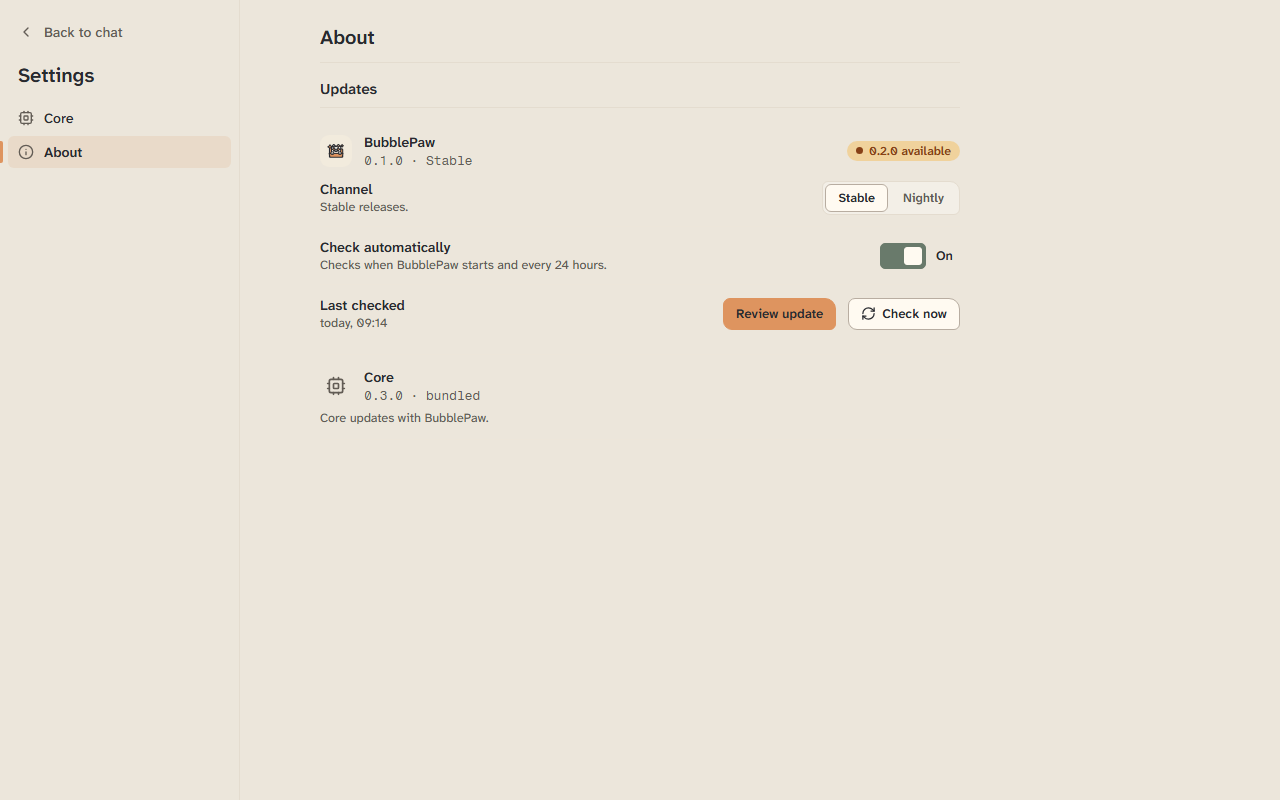
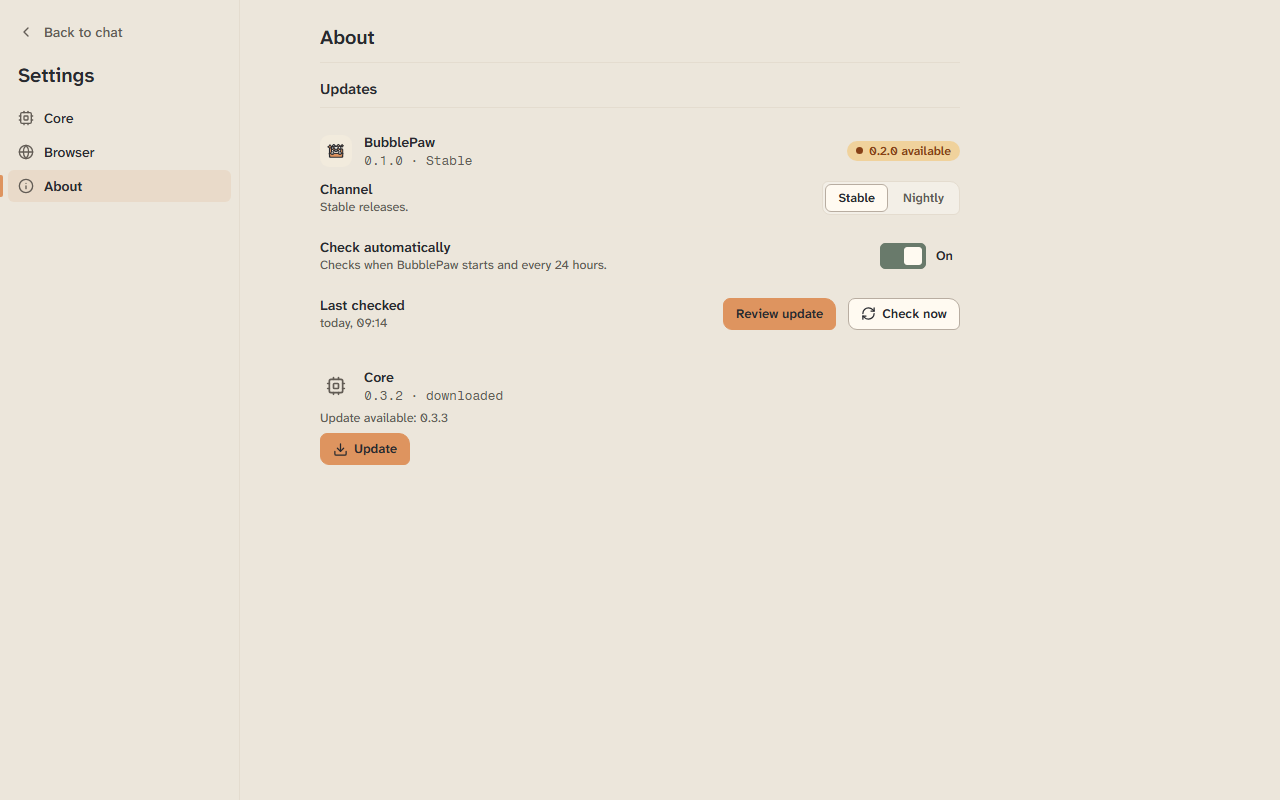
Add Browser settings page; Core is downloaded, not bundled; Chrome for Testing

Changed region(s): [[0.25, 0.4688, 0.4062, 0.5938], [0.0, 0.1875, 0.0625, 0.25]]

diff --git a/design/updates-and-browser/app.js b/design/updates-and-browser/app.js
@@ -12,7 +12,7 @@
   });
   const S = { screen: H.screen || 'popup', size: H.size || 'desktop', still: H.still || '0', tall: H.tall || '0', chrome: H.chrome || '1',
     pv: H.pv || '' };
-  const SCREENS = [['popup', '1', 'Update popup'], ['about', '2', 'About, Updates'], ['core', '3', 'Core'], ['browser', '4', 'Browser']];
+  const SCREENS = [['popup', '1', 'Update popup'], ['about', '2', 'About, Updates'], ['core', '3', 'Core'], ['browser', '4', 'Browser'], ['bset', '5', 'Browser settings']];
   const FIXED = { popup: 'desktop', core: 'desktop' };
 
   /* ---------- model ---------- */
@@ -21,11 +21,13 @@
     ch: H.ch === 'nightly' ? 'nightly' : 'stable',
     auto: true, last: 'today, 09:14', chk: H.chk || 'idle', chkResult: H.result === 'none' ? 'none' : 'found',
     pu: H.pu || 'available', prog: H.pu === 'downloading' ? 42 : 0,
-    coreMode: H.core || 'bundled', det: H.det || 'found', detBusy: false, att: H.att === 'process' ? 'process' : H.att ? 'service' : '', saved: '',
+    coreMode: !H.core || H.core === 'bundled' ? 'downloaded' : H.core, cd: H.cdl || 'update', cdp: H.cdl === 'downloading' ? 45 : 0, cdv: '0.3.2', det: H.det || 'found', detBusy: false, att: H.att === 'process' ? 'process' : H.att ? 'service' : '', saved: '',
     f: { binary: '/opt/bubblepaw/bubblepaw', data: '/home/maya/.local/share/bubblepaw-desktop/data', args: '' },
     br: { st: H.br || 'acting', tab: 0, pane: true, dl: H.br === 'downloading' ? 34 : 0,
       tabs: [{ t: 'Changelog', u: 'docs.example.com/changelog' }, { t: 'Install guide', u: 'docs.example.com/install' }, { t: 'Issue 482', u: 'github.com/example/app/issues/482' }] },
   };
+  M.bs = { ctl: H.bctl || 'ask', src: H.bsrc || 'auto', found: H.bfound === 'none' ? 'none' : 'edge', got: H.bdl === '1', idle: H.bidle || '15', keep: H.bkeep !== '0', open: H.bopen !== '0', cleared: false,
+    cpath: H.bcerr === '1' ? '/usr/bin/firefox' : '/usr/bin/chromium', cerr: H.bcerr === '1', dir: '/home/maya/Downloads' };
   if (H.tab) M.br.tab = +H.tab;
   M.br.ctrl = H.ctrl === '1'; M.br.max = H.max === '1';
   if (H.tabs === '1') M.br.tabs = [M.br.tabs[1]];
@@ -37,7 +39,8 @@
       notes: ['Built from main at 3a7f1c2, 14 commits after your current build.', 'The built-in browser shows the agent’s tabs live.', 'Fixes the checksum check when a download is retried.'] },
   };
   const ver = () => VER[M.ch];
-  const CORE = { bundled: '0.3.0', installed: '0.3.2', old: '0.2.4' };
+  const CORE = { next: '0.3.3', installed: '0.3.2', old: '0.2.4', size: 18.4 };
+  const CORE_DIR = '/home/maya/.local/share/bubblepaw-desktop/core';
   const CORE_REL = 'https://github.com/BubbleBuffer/BubblePaw-Core/releases';
 
   /* ---------- helpers ---------- */
@@ -99,10 +102,15 @@
   function coreRow() {
     const m = M.coreMode;
     let line, ver_, extra = '';
-    if (M.att) { ver_ = `${CORE.installed} · attached host`; line = 'This host is managed outside BubblePaw and is updated there.'; extra = `<a class="link" href="${CORE_REL}" target="_blank" rel="noreferrer">Core releases${ic('external-link', 13)}</a>`; }
-    else if (m === 'bundled') { ver_ = `${CORE.bundled} · bundled`; line = 'Core updates with BubblePaw.'; }
-    else if (m === 'installed') { ver_ = M.det === 'found' ? `${CORE.installed} · installed at /usr/local/bin/bubblepaw` : M.det === 'old' ? `${CORE.old} · installed at /usr/local/bin/bubblepaw` : 'Not found'; line = 'Core is updated outside BubblePaw.'; extra = `<a class="link" href="${CORE_REL}" target="_blank" rel="noreferrer">Core releases${ic('external-link', 13)}</a>`; }
-    else { ver_ = `Custom binary at ${M.f.binary}`; line = 'Core is updated outside BubblePaw.'; extra = `<a class="link" href="${CORE_REL}" target="_blank" rel="noreferrer">Core releases${ic('external-link', 13)}</a>`; }
+    if (M.att) { ver_ = `${CORE.installed} · attached host`; line = 'Updated outside BubblePaw.'; extra = `<a class="link" href="${CORE_REL}" target="_blank" rel="noreferrer">Core releases${ic('external-link', 13)}</a>`; }
+    else if (m === 'downloaded') {
+      const cd = M.cd;
+      if (cd === 'offline' || cd === 'failed' || cd === 'none') { ver_ = 'Not downloaded'; line = cd === 'offline' ? 'Core could not be downloaded because this computer is offline.' : cd === 'failed' ? 'The Core download failed.' : 'Core is not downloaded.'; extra = btn('Download', { kind: 'primary', icon: 'download', act: 'cd', arg: 'downloading' }); }
+      else if (cd === 'downloading') { ver_ = `${M.cdv} · downloading`; line = `Downloading ${CORE.next}, ${M.cdp}%`; extra = bar_(M.cdp, 'Core download'); }
+      else { ver_ = `${M.cdv} · downloaded`; line = cd === 'update' ? `Update available: ${CORE.next}` : 'Up to date.'; extra = cd === 'update' ? btn('Update', { kind: 'primary', icon: 'download', act: 'cd', arg: 'downloading' }) : ''; }
+    }
+    else if (m === 'installed') { ver_ = M.det === 'found' ? `${CORE.installed} · installed at /usr/local/bin/bubblepaw` : M.det === 'old' ? `${CORE.old} · installed at /usr/local/bin/bubblepaw` : 'Not found'; line = 'Updated outside BubblePaw.'; extra = `<a class="link" href="${CORE_REL}" target="_blank" rel="noreferrer">Core releases${ic('external-link', 13)}</a>`; }
+    else { ver_ = `Custom binary at ${M.f.binary}`; line = 'Updated outside BubblePaw.'; extra = `<a class="link" href="${CORE_REL}" target="_blank" rel="noreferrer">Core releases${ic('external-link', 13)}</a>`; }
     return `<div class="urow"><div class="uh"><span class="uic">${ic('cpu', 20)}</span><div class="grow"><div class="t">Core</div><div class="s mono">${ver_}</div></div></div><div class="s" style="margin-top:6px">${line}</div>${extra ? `<div style="margin-top:6px">${extra}</div>` : ''}</div>`;
   }
   function updates() {
@@ -119,16 +127,27 @@
   }
   function aboutDesktop() {
     return `<div class="set-desk"><nav class="set-nav" aria-label="Settings"><button class="nav-item back">${ic('chevron-left', 16)}Back to chat</button><h1>Settings</h1>
-      <button class="nav-item" ${A('screen', 'core')}>${ic('cpu', 16)}Core</button><button class="nav-item" aria-current="page">${ic('info', 16)}About</button></nav>
+      <button class="nav-item" ${A('screen', 'core')}>${ic('cpu', 16)}Core</button><button class="nav-item" ${A('screen', 'bset')}>${ic('globe', 16)}Browser</button><button class="nav-item" aria-current="page">${ic('info', 16)}About</button></nav>
       <div class="set-main"><div class="set-col"><h1 class="pt">About</h1>${updates()}</div></div></div>`;
   }
   function aboutPhone() {
     if (S.pv === 'list') return `<div class="phone-col"><div class="statusgap"></div><div class="phone-head"><button class="iconbtn" aria-label="Back to chat">${ic('chevron-left', 22)}</button><h1>Settings</h1></div>
-      <div class="phone-body" style="padding-top:8px"><button class="nav-row" ${A('pv', 'about')}>${ic('info', 20)}<span class="grow"><div class="t">About</div><div class="s">BubblePaw ${ver().cur}</div></span>${ic('chevron-right', 18)}</button></div><div class="homebar"></div></div>`;
+      <div class="phone-body" style="padding-top:8px"><button class="nav-row" ${A('pv', 'bset')}>${ic('globe', 20)}<span class="grow"><div class="t">Browser</div><div class="s">Agent control, browser, downloads</div></span>${ic('chevron-right', 18)}</button><button class="nav-row" ${A('pv', 'about')}>${ic('info', 20)}<span class="grow"><div class="t">About</div><div class="s">BubblePaw ${ver().cur}</div></span>${ic('chevron-right', 18)}</button></div><div class="homebar"></div></div>`;
     return `<div class="phone-col"><div class="statusgap"></div><div class="phone-head"><button class="iconbtn" aria-label="Back to settings" ${A('pv', 'list')}>${ic('chevron-left', 22)}</button><h1>About</h1></div><div class="phone-body">${updates()}</div><div class="homebar"></div></div>`;
   }
 
   /* ---------- 3. core ---------- */
+  function downloadedPanel() {
+    const cd = M.cd, src = ['Source', 'BubblePaw-Core releases, SHA256 checked'], dir = ['Saved to', CORE_DIR, 1];
+    if (cd === 'downloading') return `${bar_(M.cdp, 'Core download')}<div class="progline"><span>${MB(M.cdp, CORE.size)}</span><span class="muted">${M.cdp}%</span></div><div class="actions" style="margin-top:12px">${btn('Cancel', { act: 'cd', arg: M.cdv ? 'update' : 'offline' })}</div>`;
+    if (cd === 'offline') return `<div class="notice danger">${ic('circle-alert', 16)}<div class="grow">Core could not be downloaded because this computer is offline. No Core is stored yet, so the host cannot start. Retry when you are online, or choose Installed or Custom to use a bubblepaw you already have.</div></div><div class="actions" style="margin-top:12px">${btn('Retry', { kind: 'primary', icon: 'refresh-cw', act: 'cd', arg: 'downloading' })}</div>`;
+    if (cd === 'failed') return `<div class="notice danger">${ic('circle-alert', 16)}<div class="grow">The Core download stopped at 6.1 of ${CORE.size.toFixed(1)} MB. The connection was reset by the server. Nothing was stored. Retry, or choose Installed or Custom to use a bubblepaw you already have.</div></div><div class="actions" style="margin-top:12px">${btn('Retry', { kind: 'primary', icon: 'refresh-cw', act: 'cd', arg: 'downloading' })}</div>`;
+    if (cd === 'none') return `${dlCard([src, dir], btn('Download', { kind: 'primary', icon: 'download', act: 'cd', arg: 'downloading' }) + '<span class="hint">Not downloaded yet.</span>')}`;
+    const rows = [['Version', M.cdv + (cd === 'latest' ? ', up to date' : ''), 1]];
+    if (cd === 'update') rows.push(['Update available', CORE.next, 1]);
+    rows.push(src, dir);
+    return `${dlCard(rows, (cd === 'update' ? btn('Update', { kind: 'primary', icon: 'download', act: 'cd', arg: 'downloading' }) : '') + btn('Remove', { icon: 'trash-2', act: 'cd', arg: 'none' }))}<p class="hint" style="margin:10px 0 0">Only versions compatible with this BubblePaw are offered.</p>`;
+  }
   function binary() {
     const m = M.coreMode, found = M.det === 'found';
     const instSub = M.det === 'found' ? `Found <span class="mono">/usr/local/bin/bubblepaw</span>, version ${CORE.installed}.` : M.det === 'old' ? `Found version ${CORE.old}. It is too old.` : 'Not found on this computer.';
@@ -140,22 +159,22 @@
     }
     const custom = m === 'custom' ? `<div class="subpanel"><div class="field"><label for="f-binary">Path to the bubblepaw executable</label><div class="affix"><input id="f-binary" class="input" data-k="binary" value="${M.f.binary}"><button class="btn suffixbtn" ${A('browse')}>${ic('folder-open', 15)}Browse…</button></div></div></div>` : '';
     return sec('Binary', `<div role="radiogroup" aria-label="Binary">
-      <button class="opt" role="radio" aria-checked="${m === 'bundled'}" ${A('coreMode', 'bundled')}><span class="rd"></span><span><div class="t">Bundled with BubblePaw</div><div class="s">Version <span class="mono">${CORE.bundled}</span>. It updates with BubblePaw.</div></span></button>
+      <button class="opt" role="radio" aria-checked="${m === 'downloaded'}" ${A('coreMode', 'downloaded')}><span class="rd"></span><span><div class="t">Downloaded (default)</div><div class="s">BubblePaw downloads the Core release that matches this version, checks its SHA256 and stores it in its data folder.</div></span></button>${m === 'downloaded' ? `<div class="subpanel">${downloadedPanel()}</div>` : ''}
       <button class="opt" role="radio" aria-checked="${m === 'installed'}" ${A('coreMode', 'installed')}><span class="rd"></span><span><div class="t">Installed on this computer</div><div class="s">${instSub}</div></span></button>
       ${m === 'installed' ? `<div class="subpanel" style="padding-bottom:0">${panel}</div>` : ''}
       <button class="opt" role="radio" aria-checked="${m === 'custom'}" ${A('coreMode', 'custom')}><span class="rd"></span><span><div class="t">Custom binary</div><div class="s">Run a bubblepaw executable from a path you choose.</div></span></button>${custom}</div>`);
   }
   function core() {
     const svc = M.att === 'service', att = !!M.att;
-    const bad = !att && M.coreMode === 'installed' && M.det !== 'found';
-    const line = att ? (svc ? 'Attached to bubblepaw.service' : 'Attached to the running host') : `bubblepaw ${M.coreMode !== 'bundled' ? CORE.installed : CORE.bundled} · protocol 0.1`;
+    const bad = !att && ((M.coreMode === 'installed' && M.det !== 'found') || (M.coreMode === 'downloaded' && ['offline', 'failed', 'none'].includes(M.cd)));
+    const line = att ? (svc ? 'Attached to bubblepaw.service' : 'Attached to the running host') : (bad ? 'No Core is available to start' : `bubblepaw ${M.coreMode !== 'downloaded' ? CORE.installed : M.cdv} · protocol 0.1`);
     const body = sec('Core', `<div class="rowline" style="padding-top:0"><div class="grow"><div class="t">Status</div><div class="s ${att ? '' : 'mono'}">${line}</div></div>${bad ? pill('Stopped', 'danger') : pill('Running', 'ok')}${att ? btn('Detach', { act: 'att', arg: '' }) : btn(bad ? 'Start host' : 'Restart', { icon: att ? '' : 'refresh-cw', act: 'noop' })}</div>`) +
       (att ? sec('Running host', `<div class="card"><div class="kv" style="grid-template-columns:130px 1fr"><span class="k">Version</span><span class="v mono">${CORE.installed}</span></div><div class="kv" style="grid-template-columns:130px 1fr"><span class="k">Data directory</span><span class="v mono">${M.f.data}</span></div><div class="kv" style="grid-template-columns:130px 1fr"><span class="k">Runs as</span><span class="v">${svc ? 'System service, bubblepaw.service' : 'Process started outside BubblePaw'}</span></div></div>`) : '') +
       binary() +
       sec('Settings', field('Data directory', "Where this app's chats are stored. Do not share it with another BubblePaw host.", 'data') + field('Extra arguments', 'Added to the host’s command line. Optional.', 'args', { ph: 'None' }) +
-        `<div class="actions">${btn('Save and restart', { kind: 'primary', act: 'save', disabled: bad })}${btn('Cancel', { act: 'cancel' })}${M.saved ? `<span class="hint">${M.saved}</span>` : bad ? '<span class="hint">Installed Core can’t be used until it is found and recent enough.</span>' : ''}</div>`);
+        `<div class="actions">${btn('Save and restart', { kind: 'primary', act: 'save', disabled: bad })}${btn('Cancel', { act: 'cancel' })}${M.saved ? `<span class="hint">${M.saved}</span>` : bad ? `<span class="hint">${M.coreMode === 'downloaded' ? 'Download Core first, or choose Installed or Custom.' : 'Installed Core can’t be used until it is found and recent enough.'}</span>` : ''}</div>`);
     return `<div class="set-desk"><nav class="set-nav" aria-label="Settings"><button class="nav-item back">${ic('chevron-left', 16)}Back to chat</button><h1>Settings</h1>
-      <button class="nav-item" aria-current="page">${ic('cpu', 16)}Core</button><button class="nav-item" ${A('screen', 'about')}>${ic('info', 16)}About</button></nav>
+      <button class="nav-item" aria-current="page">${ic('cpu', 16)}Core</button><button class="nav-item" ${A('screen', 'bset')}>${ic('globe', 16)}Browser</button><button class="nav-item" ${A('screen', 'about')}>${ic('info', 16)}About</button></nav>
       <div class="set-main"><div class="set-col"><h1 class="pt">Core</h1>${body}</div></div></div>`;
   }
 
@@ -170,9 +189,9 @@
     const stopped = st === 'stopped', none = st === 'nobrowser' || st === 'downloading', hasTabs = b.tabs.length > 0;
     if (stopped) return `<div class="vp msg"><span class="big">${ic('power', 28)}</span><div class="t">The browser stopped</div><p>It stopped after 15 minutes without use. Its open pages were closed.</p>${btn('Start browser', { kind: 'primary', act: 'brState', arg: 'empty' })}</div>`;
     if (st === 'nobrowser') return `<div class="vp msg"><span class="big">${ic('globe', 28)}</span><div class="t">No Chrome or Edge found</div><p>The agent needs a browser to open pages. BubblePaw can download one to the host.</p>
-      <div class="card kvc"><div class="kv" style="grid-template-columns:70px 1fr"><span class="k">Size</span><span class="v">About 100 MB</span></div><div class="kv" style="grid-template-columns:70px 1fr"><span class="k">Saved to</span><span class="v mono" style="font-size:12px">/home/maya/.local/share/bubblepaw/browser on Studio PC</span></div></div>
-      ${btn('Download browser, about 100 MB', { kind: 'primary', icon: 'download', act: 'brState', arg: 'downloading' })}</div>`;
-    if (st === 'downloading') return `<div class="vp msg"><span class="big">${ic('download', 28)}</span><div class="t">Downloading the browser</div><div style="width:100%;max-width:320px">${bar_(b.dl, 'Browser download')}<div class="progline"><span>${MB(b.dl, 100)}</span><span class="muted">${b.dl}%</span></div></div>${btn('Cancel', { act: 'brState', arg: 'nobrowser' })}</div>`;
+      <div class="card kvc"><div class="kv" style="grid-template-columns:70px 1fr"><span class="k">Size</span><span class="v">About 150 MB</span></div><div class="kv" style="grid-template-columns:70px 1fr"><span class="k">Saved to</span><span class="v mono" style="font-size:12px">/home/maya/.local/share/bubblepaw/browser on Studio PC</span></div></div>
+      ${btn('Download browser, about 150 MB', { kind: 'primary', icon: 'download', act: 'brState', arg: 'downloading' })}</div>`;
+    if (st === 'downloading') return `<div class="vp msg"><span class="big">${ic('download', 28)}</span><div class="t">Downloading the browser</div><div style="width:100%;max-width:320px">${bar_(b.dl, 'Browser download')}<div class="progline"><span>${MB(b.dl, 150)}</span><span class="muted">${b.dl}%</span></div></div>${btn('Cancel', { act: 'brState', arg: 'nobrowser' })}</div>`;
     if (!hasTabs) return `<div class="vp msg"><span class="big">${ic('globe', 28)}</span><div class="t">No pages are open</div><p>The agent opens pages here when it needs the web. You can also open one yourself.</p></div>`;
     const page = PAGES[b.tab] !== undefined && b.tabs.length === 3 ? PAGES[b.tab] : PAGES[1];
     return `<div class="vp ${M.br.ctrl ? 'ctrl' : ''}"><div class="vp-page">${page}</div></div>`;
@@ -218,6 +237,47 @@
     return `<div class="phone-col"><div class="statusgap"></div><div class="phone-head"><button class="iconbtn" aria-label="Back to chat" ${A('pv', 'chat')}>${ic('chevron-left', 22)}</button><h1>Browser</h1></div>${browserPane(true)}<div class="homebar"></div></div>`;
   }
 
+  /* ---------- 5. browser settings ---------- */
+  function dlCard(rows, actions) {
+    return `<div class="card kvc">${rows.map(([k, v, mono]) => `<div class="kv" style="grid-template-columns:90px 1fr"><span class="k">${k}</span><span class="v ${mono ? 'mono' : ''}" ${mono ? 'style="font-size:12px;overflow-wrap:anywhere"' : ''}>${v}</span></div>`).join('')}</div><div class="actions" style="margin-top:12px">${actions}</div>`;
+  }
+  function bsettings() {
+    const b = M.bs, ctlLine = { off: 'The agent is not offered browser tools.', ask: 'The agent asks in the chat before it opens the browser.', allowed: 'The agent can open and use the browser without asking.' }[b.ctl];
+    const row = (t, s, right, stk) => `<div class="rowline ${stk ? 'stk' : ''}"><div class="grow"><div class="t">${t}</div>${s ? `<div class="s">${s}</div>` : ''}</div>${right || ''}</div>`;
+    const none = b.found === 'none';
+    const autoSub = none ? 'No Chrome, Chromium or Edge found on this computer.' : 'Found Microsoft Edge 131.';
+    let autoPanel = '';
+    if (b.src === 'auto') autoPanel = none
+      ? `<div class="subpanel"><div class="notice">${ic('circle-alert', 16)}<div class="grow">No Chromium-based browser was found. Use the downloaded browser, or choose a path to your own.</div>${btn('Use Downloaded', { kind: 'primary', act: 'bsrc', arg: 'downloaded' })}</div></div>`
+      : `<div class="subpanel"><div class="card"><div class="kv" style="grid-template-columns:90px 1fr"><span class="k">Browser</span><span class="v">Microsoft Edge 131</span></div><div class="kv" style="grid-template-columns:90px 1fr"><span class="k">Path</span><span class="v mono" style="font-size:12px;overflow-wrap:anywhere">C:\\Program Files (x86)\\Microsoft\\Edge\\Application\\msedge.exe</span></div></div></div>`;
+    let dlPanel = '';
+    if (b.src === 'downloaded') dlPanel = `<div class="subpanel">${dlCard([['Browser', 'Chrome for Testing' + (b.got ? ', version 131' : '')], ['Size', 'About 150 MB'], ['Saved to', '/home/maya/.local/share/bubblepaw/browser', 1]],
+      b.got ? btn('Remove', { icon: 'trash-2', act: 'bgot', arg: '0' }) : btn('Download', { kind: 'primary', icon: 'download', act: 'bgot', arg: '1' }) + '<span class="hint">Not downloaded yet.</span>')}</div>`;
+    let cuPanel = '';
+    if (b.src === 'custom') cuPanel = `<div class="subpanel"><div class="field"><label for="f-cpath">Path to a Chromium-based browser</label><div class="affix"><input id="f-cpath" class="input" data-k="cpath" aria-invalid="${b.cerr}" value="${b.cpath}"><button class="btn suffixbtn" ${A('bbrowse')}>${ic('folder-open', 15)}Browse…</button></div></div>
+      ${b.cerr ? `<div class="notice danger" style="margin-top:10px">${ic('circle-alert', 16)}<div>Not a Chromium-based browser. Choose Chrome, Chromium, Edge, Brave or similar.</div></div>` : `<div class="hint" style="margin-top:8px">Detected Chromium 131.0.6778.</div>`}</div>`;
+    const choice = `<div role="radiogroup" aria-label="Browser">
+      <button class="opt" role="radio" aria-checked="${b.src === 'auto'}" ${A('bsrc', 'auto')}><span class="rd"></span><span><div class="t">Automatic</div><div class="s">${autoSub}</div></span></button>${autoPanel}
+      <button class="opt" role="radio" aria-checked="${b.src === 'downloaded'}" ${A('bsrc', 'downloaded')}><span class="rd"></span><span><div class="t">Downloaded</div><div class="s">Chrome for Testing, about 150 MB, saved on this host.</div></span></button>${dlPanel}
+      <button class="opt" role="radio" aria-checked="${b.src === 'custom'}" ${A('bsrc', 'custom')}><span class="rd"></span><span><div class="t">Custom path</div><div class="s">Use any Chromium-based browser at a path you choose.</div></span></button>${cuPanel}</div>`;
+    const idleLine = b.idle === '0' ? 'The browser keeps running until the host stops.' : `The browser stops after ${b.idle} minutes without use. Open tabs reopen at their addresses.`;
+    return sec('Agent', row('Agent browser control', ctlLine, seg([['off', 'Off'], ['ask', 'Ask each chat'], ['allowed', 'Allowed']], b.ctl, 'bctl'), 1) +
+        row('Open the browser pane when the agent starts browsing', '', sw(b.open, 'Open the browser pane when the agent starts browsing', 'bopen'))) +
+      sec('Browser', choice) +
+      sec('Sessions', row('Close when idle (minutes)', idleLine, seg([['0', 'Never'], ['5', '5'], ['15', '15'], ['60', '60']], b.idle, 'bidle'), 1) +
+        row('Keep sign-ins between sessions', 'Cookies and site data stay on the host.', sw(b.keep, 'Keep sign-ins between sessions', 'bkeep')) +
+        row('Clear browsing data', b.cleared ? 'Cookies, site data and cache were cleared.' : 'Removes cookies, site data and cache. You are signed out of every site.', btn('Clear browsing data', { icon: 'trash-2', act: 'bclear' }), 1)) +
+      sec('Downloads', `<div class="field"><label for="f-dir">Downloads folder</label><div class="hint">Where files the browser downloads are saved on the host.</div><div class="affix"><input id="f-dir" class="input" data-k="dir" value="${b.dir}"><button class="btn suffixbtn" ${A('bbrowse')}>${ic('folder-open', 15)}Browse…</button></div></div>`);
+  }
+  function bsetDesktop() {
+    return `<div class="set-desk"><nav class="set-nav" aria-label="Settings"><button class="nav-item back">${ic('chevron-left', 16)}Back to chat</button><h1>Settings</h1>
+      <button class="nav-item" ${A('screen', 'core')}>${ic('cpu', 16)}Core</button><button class="nav-item" aria-current="page">${ic('globe', 16)}Browser</button><button class="nav-item" ${A('screen', 'about')}>${ic('info', 16)}About</button></nav>
+      <div class="set-main"><div class="set-col"><h1 class="pt">Browser</h1>${bsettings()}</div></div></div>`;
+  }
+  function bsetPhone() {
+    return `<div class="phone-col"><div class="statusgap"></div><div class="phone-head"><button class="iconbtn" aria-label="Back to settings" ${A('pv', 'list')}>${ic('chevron-left', 22)}</button><h1>Browser</h1></div><div class="phone-body">${bsettings()}</div><div class="homebar"></div></div>`;
+  }
+
   /* ---------- review bar ---------- */
   function bar() {
     const scr = SCREENS.map(([id, n, l]) => `<button class="tab" role="tab" aria-selected="${S.screen === id}" ${A('screen', id)}><small>${n}</small>${l}</button>`).join('');
@@ -230,12 +290,19 @@
       sims.push(grp('Channel', [['stable', 'Stable'], ['nightly', 'Nightly']].map(([v, l]) => chip('ch', v, l, M.ch === v))));
     }
     if (S.screen === 'about') {
-      sims.push(grp('Core binary', [['bundled', 'Bundled'], ['installed', 'Installed'], ['custom', 'Custom']].map(([v, l]) => chip('coreMode', v, l, M.coreMode === v))));
+      sims.push(grp('Downloaded Core', [['update', 'Update available'], ['latest', 'Up to date'], ['downloading', 'Downloading'], ['offline', 'Offline']].map(([v, l]) => chip('cd', v, l, M.cd === v))));
+      sims.push(grp('Core binary', [['downloaded', 'Downloaded'], ['installed', 'Installed'], ['custom', 'Custom']].map(([v, l]) => chip('coreMode', v, l, M.coreMode === v))));
       sims.push(grp('Check result', [['found', 'Update available'], ['none', 'Up to date']].map(([v, l]) => chip('result', v, l, M.chkResult === v))));
     }
     if (S.screen === 'core') {
+      sims.push(grp('Downloaded Core', [['update', 'Update available'], ['latest', 'Up to date'], ['downloading', 'Downloading'], ['offline', 'Offline'], ['failed', 'Failed'], ['none', 'Removed']].map(([v, l]) => chip('cd', v, l, M.cd === v))));
       sims.push(grp('Installed Core', [['found', 'Found'], ['missing', 'Not found'], ['old', 'Too old']].map(([v, l]) => chip('det', v, l, M.det === v))));
       sims.push(grp('Host', [['', 'Own host'], ['service', 'Attached, system service'], ['process', 'Attached, other process']].map(([v, l]) => chip('att', v, l, M.att === v))));
+    }
+    if (S.screen === 'bset') {
+      sims.push(grp('Browser', [['auto', 'Automatic'], ['downloaded', 'Downloaded'], ['custom', 'Custom path']].map(([v, l]) => chip('bsrc', v, l, M.bs.src === v))));
+      sims.push(grp('Found', [['edge', 'Edge found'], ['none', 'Nothing found']].map(([v, l]) => chip('bfound', v, l, M.bs.found === v))));
+      sims.push(grp('Custom path', [['0', 'Chromium'], ['1', 'Firefox']].map(([v, l]) => chip('bcerr', v, l, String(+M.bs.cerr) === v))));
     }
     if (S.screen === 'browser') {
       sims.push(grp('State', [['acting', 'Agent acting'], ['ready', 'Agent idle'], ['empty', 'Empty'], ['nobrowser', 'No browser'], ['stopped', 'Stopped when idle']].map(([v, l]) => chip('brState', v, l, M.br.st === v))));
@@ -256,13 +323,14 @@
     document.documentElement.dataset.theme = M.pref;
     document.body.className = [S.tall === '1' ? 'tall' : '', S.chrome === '0' ? 'nochrome' : '', S.still === '1' ? 'still' : ''].join(' ');
     const p = ph();
-    if (p && !S.pv) S.pv = S.screen === 'about' ? 'about' : 'browser';
+    if (p && !S.pv) S.pv = S.screen === 'about' ? 'about' : S.screen === 'bset' ? 'bset' : 'browser';
     const frame = document.getElementById('frame');
     frame.className = 'frame ' + (p ? 'phone' : 'desktop');
     let html = '';
     if (S.screen === 'popup') html = popup();
     else if (S.screen === 'about') html = p ? aboutPhone() : aboutDesktop();
     else if (S.screen === 'core') html = core();
+    else if (S.screen === 'bset') html = p ? (S.pv === 'list' || S.pv === 'about' ? aboutPhone() : bsetPhone()) : bsetDesktop();
     else html = p ? browserPhone() : browserDesktop();
     frame.innerHTML = html;
     document.getElementById('bar').innerHTML = bar();
@@ -285,6 +353,7 @@
     clearInterval(timer);
     if (S.still === '1') return;
     if (S.screen === 'popup' && M.pu === 'downloading') timer = setInterval(() => { M.prog = Math.min(100, M.prog + 7); if (M.prog >= 100) { M.pu = 'ready'; clearInterval(timer); } render(); }, 400);
+    if ((S.screen === 'core' || S.screen === 'about') && M.cd === 'downloading') timer = setInterval(() => { M.cdp = Math.min(100, M.cdp + 8); if (M.cdp >= 100) { M.cd = 'latest'; M.cdv = CORE.next; clearInterval(timer); } render(); }, 400);
     if (S.screen === 'browser' && M.br.st === 'downloading') timer = setInterval(() => { M.br.dl = Math.min(100, M.br.dl + 9); if (M.br.dl >= 100) { M.br.st = 'empty'; M.br.tabs = []; clearInterval(timer); } render(); }, 400);
   }
 
@@ -307,7 +376,8 @@
     att: (v) => { M.att = v; },
     browse: () => { M.f.binary = '/usr/local/bin/bubblepaw'; },
     save: () => { M.saved = 'Host restarted with the saved settings.'; },
-    cancel: () => { M.coreMode = 'bundled'; M.saved = ''; },
+    cancel: () => { M.coreMode = 'downloaded'; M.saved = ''; },
+    cd: (v) => { M.cd = v; if (v === 'downloading') M.cdp = 0; },
     brState: (v) => { M.br.st = v; if (v === 'downloading') M.br.dl = 0; M.br.ctrl = false; if (v === 'acting' || v === 'ready') { if (!M.br.tabs.length) M.br.tabs = [{ t: 'Changelog', u: 'docs.example.com/changelog' }, { t: 'Install guide', u: 'docs.example.com/install' }, { t: 'Issue 482', u: 'github.com/example/app/issues/482' }]; M.br.tab = 1; } },
     takeover: () => { M.br.ctrl = true; },
     handback: () => { M.br.ctrl = false; },
@@ -316,6 +386,10 @@
     bclose: (v) => { M.br.tabs.splice(+v, 1); M.br.tab = Math.max(0, Math.min(M.br.tab, M.br.tabs.length - 1)); if (!M.br.tabs.length) M.br.st = 'empty'; },
     bnew: () => { M.br.tabs.push({ t: 'New tab', u: '' }); M.br.tab = M.br.tabs.length - 1; },
     pane: () => { M.br.pane = !M.br.pane; },
+    bctl: (v) => { M.bs.ctl = v; }, bsrc: (v) => { M.bs.src = v; }, bfound: (v) => { M.bs.found = v; }, bidle: (v) => { M.bs.idle = v; },
+    bcerr: (v) => { M.bs.cerr = v === '1'; M.bs.cpath = v === '1' ? '/usr/bin/firefox' : '/usr/bin/chromium'; },
+    bkeep: () => { M.bs.keep = !M.bs.keep; }, bopen: () => { M.bs.open = !M.bs.open; }, bgot: (v) => { M.bs.got = v === '1'; },
+    bclear: () => { M.bs.cleared = true; }, bbrowse: () => {},
     noop: () => {},
   };
   document.addEventListener('click', (ev) => {
@@ -328,7 +402,7 @@
   });
   document.addEventListener('input', (ev) => {
     const k = ev.target.dataset && ev.target.dataset.k;
-    if (k) M.f[k] = ev.target.value;
+    if (k === 'cpath' || k === 'dir') M.bs[k] = ev.target.value; else if (k) M.f[k] = ev.target.value;
   });
   if (M.br.st === 'acting' || M.br.st === 'ready') M.br.tab = H.tab ? +H.tab : 1;
   if (M.br.st === 'empty') M.br.tabs = [];

diff --git a/design/updates-and-browser/index.html b/design/updates-and-browser/index.html
@@ -8,7 +8,10 @@
 <li><span>popup checksum</span><a href="app.html#screen=popup&pu=checksum">Light</a><a href="app.html#screen=popup&pu=checksum&amp;theme=dark">Dark</a></li>
 </ul>
 <h2>About, Updates</h2><ul>
-<li><span>about stable bundled</span><a href="app.html#screen=about">Light</a><a href="app.html#screen=about&amp;theme=dark">Dark</a></li>
+<li><span>about stable downloaded Core</span><a href="app.html#screen=about">Light</a><a href="app.html#screen=about&amp;theme=dark">Dark</a></li>
+<li><span>about Core downloading</span><a href="app.html#screen=about&cdl=downloading">Light</a><a href="app.html#screen=about&cdl=downloading&amp;theme=dark">Dark</a></li>
+<li><span>about Core up to date</span><a href="app.html#screen=about&cdl=latest&chk=none">Light</a><a href="app.html#screen=about&cdl=latest&chk=none&amp;theme=dark">Dark</a></li>
+<li><span>about Core offline</span><a href="app.html#screen=about&cdl=offline">Light</a><a href="app.html#screen=about&cdl=offline&amp;theme=dark">Dark</a></li>
 <li><span>about update found</span><a href="app.html#screen=about&chk=found">Light</a><a href="app.html#screen=about&chk=found&amp;theme=dark">Dark</a></li>
 <li><span>about nightly installed</span><a href="app.html#screen=about&ch=nightly&core=installed&chk=found">Light</a><a href="app.html#screen=about&ch=nightly&core=installed&chk=found&amp;theme=dark">Dark</a></li>
 <li><span>about custom core</span><a href="app.html#screen=about&core=custom&chk=none">Light</a><a href="app.html#screen=about&core=custom&chk=none&amp;theme=dark">Dark</a></li>
@@ -16,7 +19,11 @@
 <li><span>Phone: about nightly installed</span><a href="app.html#screen=about&size=phone&ch=nightly&core=installed&chk=found">Light</a><a href="app.html#screen=about&size=phone&ch=nightly&core=installed&chk=found&amp;theme=dark">Dark</a></li>
 </ul>
 <h2>Core (desktop)</h2><ul>
-<li><span>core bundled</span><a href="app.html#screen=core">Light</a><a href="app.html#screen=core&amp;theme=dark">Dark</a></li>
+<li><span>core downloaded, update available</span><a href="app.html#screen=core">Light</a><a href="app.html#screen=core&amp;theme=dark">Dark</a></li>
+<li><span>core downloaded, up to date</span><a href="app.html#screen=core&cdl=latest">Light</a><a href="app.html#screen=core&cdl=latest&amp;theme=dark">Dark</a></li>
+<li><span>core downloading</span><a href="app.html#screen=core&cdl=downloading">Light</a><a href="app.html#screen=core&cdl=downloading&amp;theme=dark">Dark</a></li>
+<li><span>core first start offline</span><a href="app.html#screen=core&cdl=offline">Light</a><a href="app.html#screen=core&cdl=offline&amp;theme=dark">Dark</a></li>
+<li><span>core download failed</span><a href="app.html#screen=core&cdl=failed">Light</a><a href="app.html#screen=core&cdl=failed&amp;theme=dark">Dark</a></li>
 <li><span>core installed found</span><a href="app.html#screen=core&core=installed">Light</a><a href="app.html#screen=core&core=installed&amp;theme=dark">Dark</a></li>
 <li><span>core installed missing</span><a href="app.html#screen=core&core=installed&det=missing">Light</a><a href="app.html#screen=core&core=installed&det=missing&amp;theme=dark">Dark</a></li>
 <li><span>core installed too old</span><a href="app.html#screen=core&core=installed&det=old">Light</a><a href="app.html#screen=core&core=installed&det=old&amp;theme=dark">Dark</a></li>
@@ -39,4 +46,17 @@
 <li><span>Phone: browser empty</span><a href="app.html#screen=browser&size=phone&br=empty">Light</a><a href="app.html#screen=browser&size=phone&br=empty&amp;theme=dark">Dark</a></li>
 <li><span>Phone: browser no browser</span><a href="app.html#screen=browser&size=phone&br=nobrowser">Light</a><a href="app.html#screen=browser&size=phone&br=nobrowser&amp;theme=dark">Dark</a></li>
 <li><span>Phone: browser stopped</span><a href="app.html#screen=browser&size=phone&br=stopped">Light</a><a href="app.html#screen=browser&size=phone&br=stopped&amp;theme=dark">Dark</a></li>
+</ul>
+<h2>Browser settings</h2><ul>
+<li><span>browser settings</span><a href="app.html#screen=bset">Light</a><a href="app.html#screen=bset&amp;theme=dark">Dark</a></li>
+<li><span>nothing found under Automatic</span><a href="app.html#screen=bset&bfound=none">Light</a><a href="app.html#screen=bset&bfound=none&amp;theme=dark">Dark</a></li>
+<li><span>Downloaded, installed</span><a href="app.html#screen=bset&bsrc=downloaded&bdl=1">Light</a><a href="app.html#screen=bset&bsrc=downloaded&bdl=1&amp;theme=dark">Dark</a></li>
+<li><span>Downloaded, not yet</span><a href="app.html#screen=bset&bsrc=downloaded">Light</a><a href="app.html#screen=bset&bsrc=downloaded&amp;theme=dark">Dark</a></li>
+<li><span>custom path</span><a href="app.html#screen=bset&bsrc=custom">Light</a><a href="app.html#screen=bset&bsrc=custom&amp;theme=dark">Dark</a></li>
+<li><span>custom path error</span><a href="app.html#screen=bset&bsrc=custom&bcerr=1">Light</a><a href="app.html#screen=bset&bsrc=custom&bcerr=1&amp;theme=dark">Dark</a></li>
+<li><span>Phone: browser settings</span><a href="app.html#screen=bset&size=phone&pv=bset">Light</a><a href="app.html#screen=bset&size=phone&pv=bset&amp;theme=dark">Dark</a></li>
+<li><span>Phone: nothing found</span><a href="app.html#screen=bset&size=phone&pv=bset&bfound=none">Light</a><a href="app.html#screen=bset&size=phone&pv=bset&bfound=none&amp;theme=dark">Dark</a></li>
+<li><span>Phone: Downloaded</span><a href="app.html#screen=bset&size=phone&pv=bset&bsrc=downloaded&bdl=1">Light</a><a href="app.html#screen=bset&size=phone&pv=bset&bsrc=downloaded&bdl=1&amp;theme=dark">Dark</a></li>
+<li><span>Phone: custom path</span><a href="app.html#screen=bset&size=phone&pv=bset&bsrc=custom">Light</a><a href="app.html#screen=bset&size=phone&pv=bset&bsrc=custom&amp;theme=dark">Dark</a></li>
+<li><span>Phone: custom path error</span><a href="app.html#screen=bset&size=phone&pv=bset&bsrc=custom&bcerr=1">Light</a><a href="app.html#screen=bset&size=phone&pv=bset&bsrc=custom&bcerr=1&amp;theme=dark">Dark</a></li>
 </ul></main></body></html>

diff --git a/design/updates-and-browser/style.css b/design/updates-and-browser/style.css
@@ -559,3 +559,9 @@ body.still .step.run .ic, body.still .spin .ic { animation: none; }
 .vp:not(.ctrl) .vp-page { pointer-events: none; }
 .vp.ctrl { box-shadow: inset 0 0 0 2px var(--accent); }
 .bpane.ctrl .btool .baddr { border-color: var(--accent); }
+
+.phone .rowline.stk{flex-wrap:wrap}
+.phone .rowline.stk>.grow{flex:1 1 100%}
+.phone .rowline.stk>.seg{width:100%}
+.phone .rowline.stk>.seg button{flex:1;min-height:44px}
+.phone .rowline.stk>.btn{min-height:44px}
